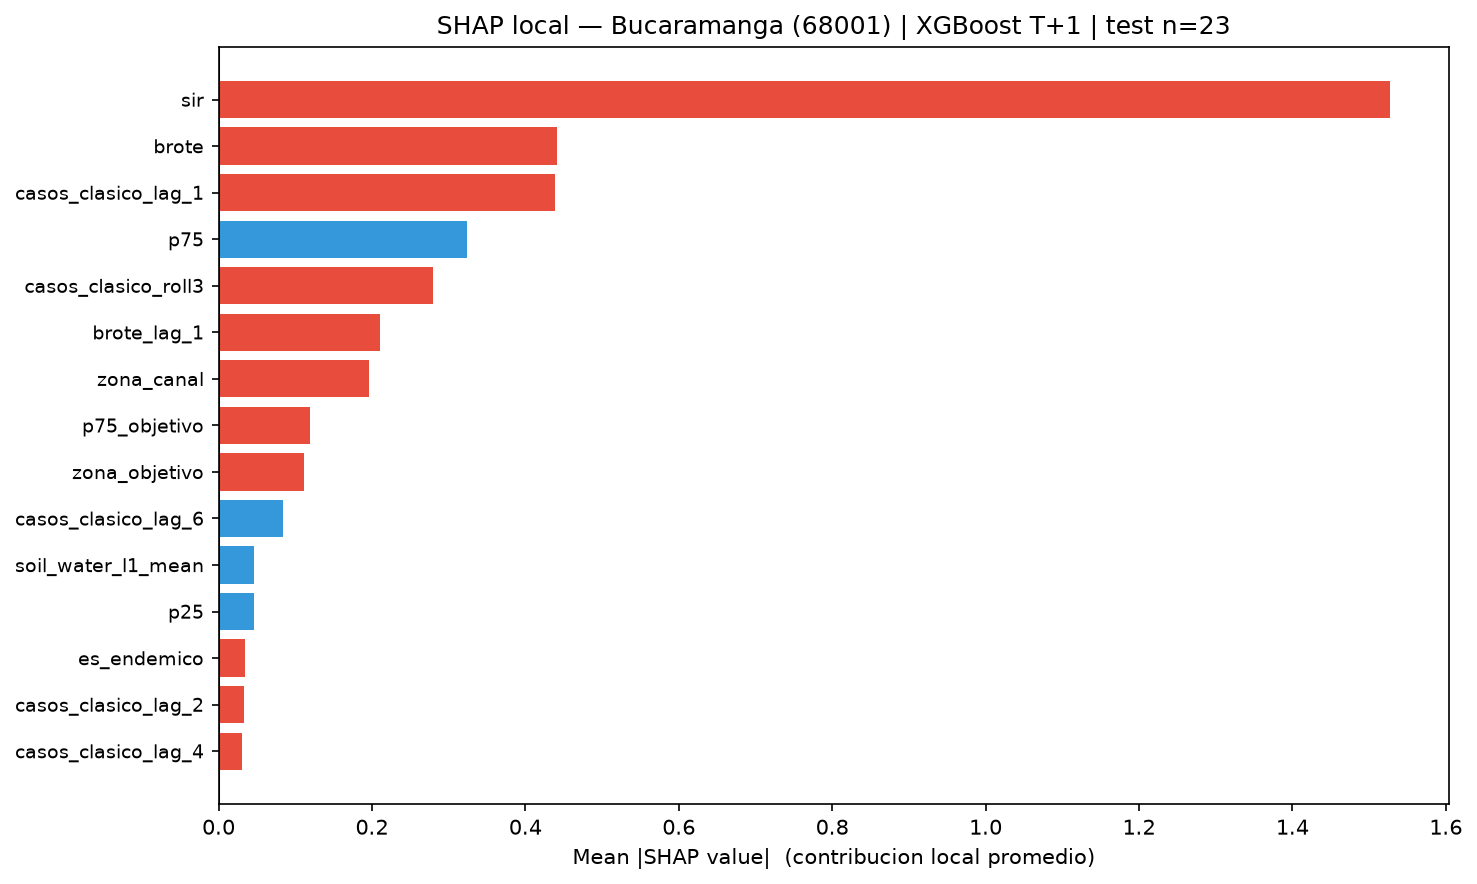
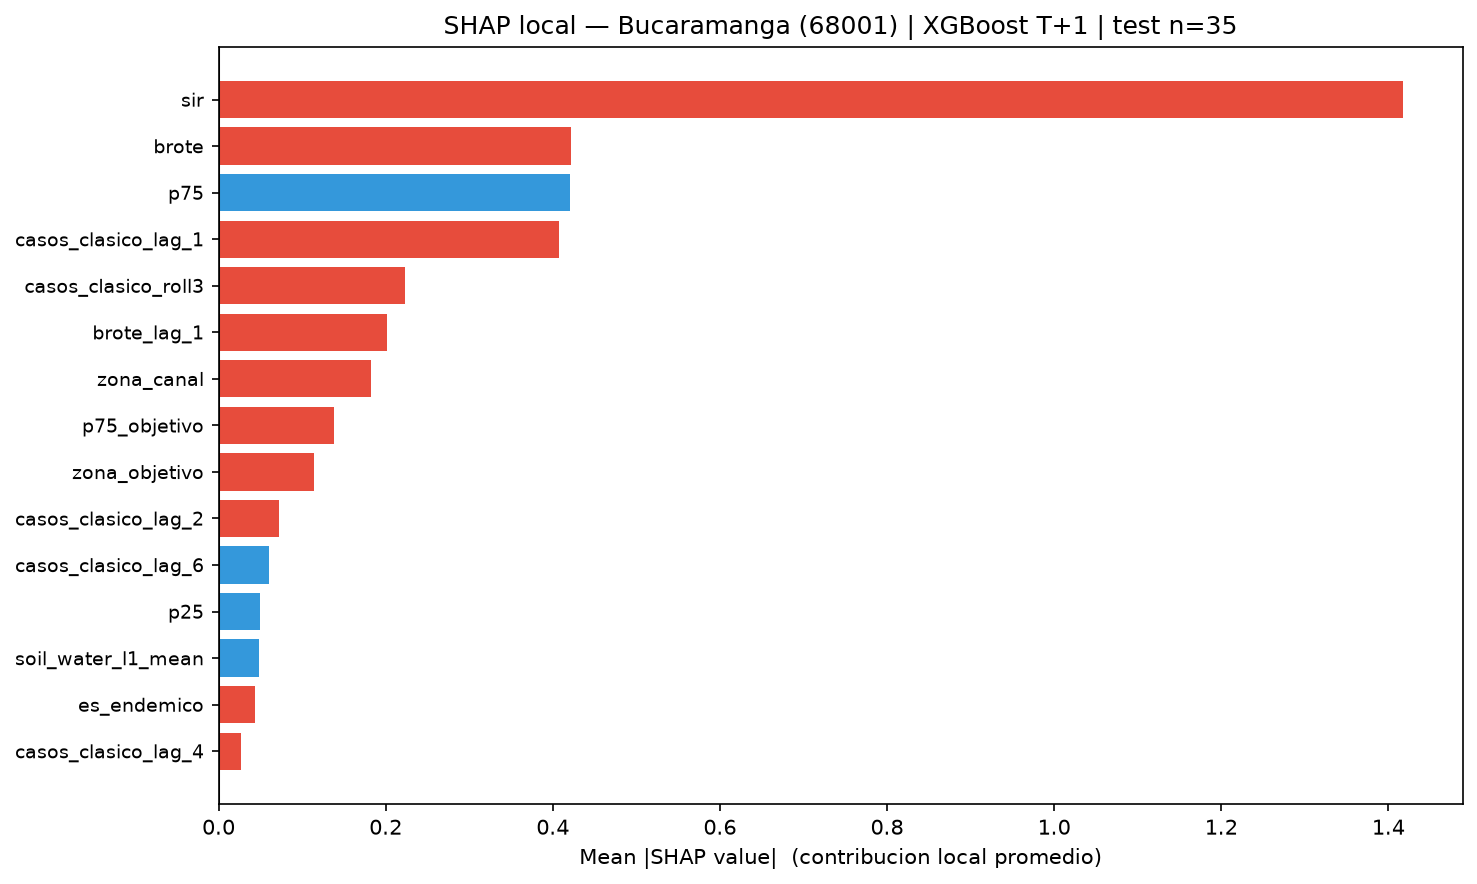
regenerate SHAP PNGs with TRAIN_END=2022 models; fix generate_shap.py to import ANIO_FIN_TRAIN

diff --git a/scripts/generate_shap.py b/scripts/generate_shap.py
@@ -12,7 +12,7 @@ import pickle
 import sys
 
 sys.path.insert(0, os.path.dirname(__file__))
-from model_utils import make_t2_target
+from model_utils import ANIO_FIN_TRAIN, make_t2_target
 
 import matplotlib
 matplotlib.use("Agg")
@@ -27,7 +27,7 @@ MODEL_DIR  = os.path.join(ROOT, "model")
 REPORT_DIR = os.path.join(ROOT, "reports")
 
 TARGET    = "objetivo"
-TRAIN_END = 2023
+TRAIN_END = ANIO_FIN_TRAIN
 CITIES    = {"68001": "Bucaramanga", "76001": "Cali"}
 TOP_N     = 15
 
